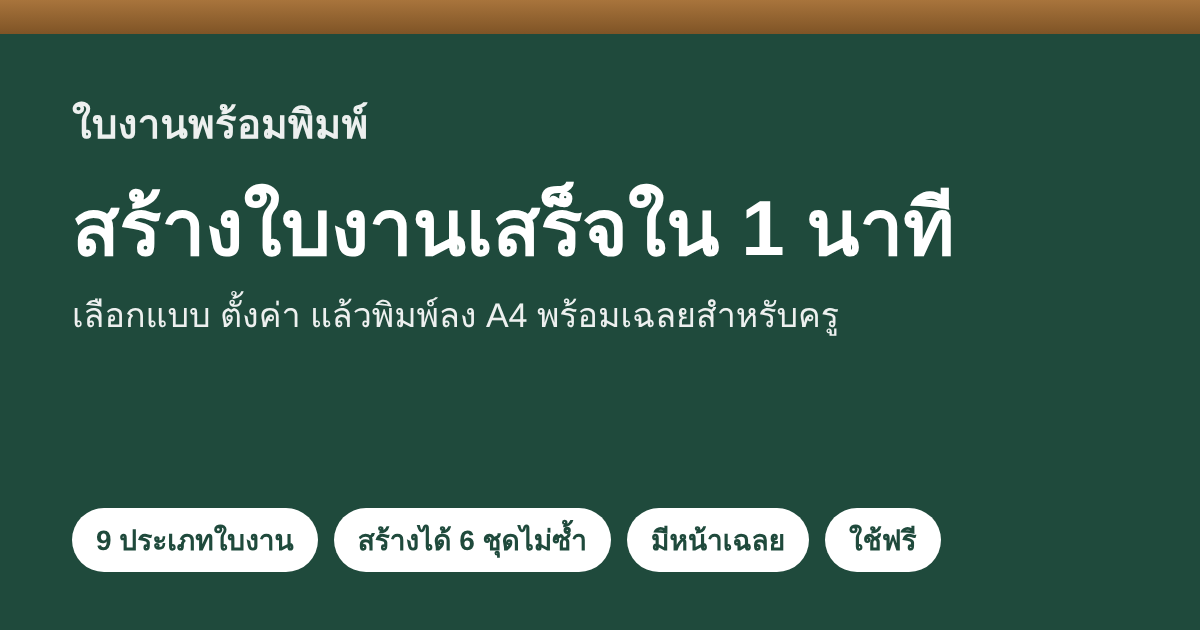
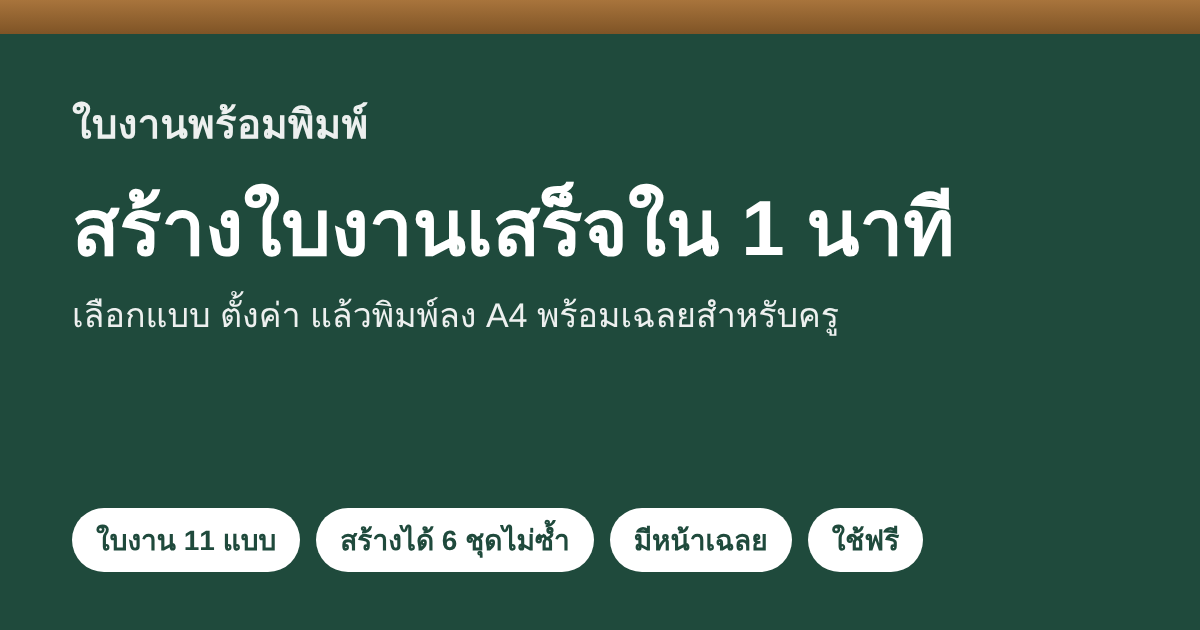
Add stock/shipping, timetable/attendance, counter sales
Claude-Session: https://claude.ai/code/session_01JY46Mq7wkg6osFKinFdLUy

Changed region(s): [[0.0617, 0.7841, 0.8017, 0.9048], [0.2158, 0.7841, 0.2467, 0.8143]]

diff --git a/index.html b/index.html
@@ -188,6 +188,18 @@ dialog.dlg::backdrop{background:rgba(10,20,18,.5)}
 .page.f-dash::before{border:2px dashed #111;border-radius:4mm}
 .page.f-round::before{border:2.5px solid #111;border-radius:8mm}
 .ws-head .set{display:inline-block;margin-left:3mm;padding:0 3mm;border:1.5px solid #111;border-radius:99px;font-family:var(--f-body);font-size:11pt;font-weight:600;vertical-align:middle}
+
+/* timetable and attendance */
+.tb table,.rl table{width:100%;border-collapse:collapse;table-layout:fixed}
+.tb th,.tb td,.rl th,.rl td{border:1.2px solid #111;text-align:center;padding:.6mm;overflow:hidden}
+.tb th{font-size:9.5pt;font-weight:600;height:13mm;line-height:1.2}
+.tb th small{display:block;font-weight:400;font-size:7.5pt}
+.tb td{height:27mm;font-size:10.5pt;line-height:1.25;word-break:break-word}
+.tb .day{width:20mm;font-weight:700;font-family:var(--f-head)}
+.tb .lunch{width:8mm;background:#eceff5;font-size:8.5pt;padding:0}
+.rl th{font-size:9pt;height:10mm}
+.rl td{height:6.5mm;font-size:9.5pt}
+.rl .no{width:9mm}.rl .nm{width:46mm;text-align:left;padding-left:1.5mm;white-space:nowrap}.rl .sum{width:11mm}
 </style>
 </head>
 <body>
@@ -208,6 +220,8 @@ dialog.dlg::backdrop{background:rgba(10,20,18,.5)}
     <button type="button" data-type="cmp"><svg class="ic" viewBox="0 0 24 24" aria-hidden="true"><path d="M9 7l-5 5 5 5M15 7l5 5-5 5"/></svg>เปรียบเทียบจำนวน</button>
     <button type="button" data-type="seq"><svg class="ic" viewBox="0 0 24 24" aria-hidden="true"><path d="M4 17h3V12h4V7h4V4h5"/></svg>แบบรูปจำนวน</button>
     <button type="button" data-type="frac"><svg class="ic" viewBox="0 0 24 24" aria-hidden="true"><circle cx="12" cy="12" r="9"/><path d="M12 3v9h9"/></svg>เศษส่วน</button>
+    <button type="button" data-type="table"><svg class="ic" viewBox="0 0 24 24" aria-hidden="true"><rect x="3" y="5" width="18" height="15" rx="2"/><path d="M3 10h18M8 5v15M8 3v2M16 3v2"/></svg>ตารางเรียน</button>
+    <button type="button" data-type="roll"><svg class="ic" viewBox="0 0 24 24" aria-hidden="true"><path d="M5 4h14v16H5z"/><path d="M8 9l1.5 1.5L12 8M8 15l1.5 1.5L12 14M14 9.5h3M14 15.5h3"/></svg>ใบเช็กชื่อ</button>
   </div>
 
   <label class="f">ชื่อโรงเรียน<input type="text" id="school" value="โรงเรียนบ้านตัวอย่าง"></label>
@@ -285,6 +299,28 @@ rabbit = กระต่าย</textarea></label>
       <select id="tBlank"><option value="100">ทุกข้อ</option><option value="50" selected>ครึ่งหนึ่ง</option><option value="30">บางข้อ</option></select></label>
   </div>
 
+  <div class="opt" id="o-table">
+    <div class="two">
+      <label class="f">จำนวนคาบต่อวัน<input type="number" id="tPer" min="3" max="9" value="6" inputmode="numeric"></label>
+      <label class="f">เริ่มคาบแรกเวลา<input type="text" id="tStart" value="08:30" inputmode="numeric"></label>
+    </div>
+    <div class="two">
+      <label class="f">คาบละกี่นาที<input type="number" id="tMin" min="20" max="120" value="50" inputmode="numeric"></label>
+      <label class="f">พักเที่ยงหลังคาบที่<input type="number" id="tLunch" min="0" max="9" value="3" inputmode="numeric"></label>
+    </div>
+    <label class="f">วิชาในแต่ละวัน (ไม่ใส่ก็ได้ จะได้ตารางเปล่า) พิมพ์วันละบรรทัด คั่นวิชาด้วยจุลภาค
+      <textarea id="tText" placeholder="จันทร์: ภาษาไทย, คณิตศาสตร์, อังกฤษ, วิทยาศาสตร์, สังคม, พละ&#10;อังคาร: คณิตศาสตร์, ภาษาไทย, ศิลปะ"></textarea></label>
+  </div>
+
+  <div class="opt" id="o-roll">
+    <div class="two">
+      <label class="f">จำนวนนักเรียน<input type="number" id="rRows" min="5" max="60" value="30" inputmode="numeric"></label>
+      <label class="f">จำนวนช่องวัน<input type="number" id="rCols" min="5" max="25" value="20" inputmode="numeric"></label>
+    </div>
+    <label class="f">รายชื่อนักเรียน (ไม่ใส่ก็ได้) บรรทัดละ 1 คน
+      <textarea id="rNames"></textarea></label>
+  </div>
+
   <div class="opt" id="o-frac">
     <div class="two">
       <label class="f">รูปภาพ
@@ -352,7 +388,7 @@ rabbit = กระต่าย</textarea></label>
 
 </div></main>
 <footer class="site-ft"><button type="button" data-open="dlgGuide">วิธีใช้</button><button type="button" data-open="dlgPolicy">นโยบายความเป็นส่วนตัวและความปลอดภัย</button><a href="https://github.com/rookiekrit6-dotcom/Worksheet/issues">แจ้งปัญหาหรือเสนอแนะ</a><span>ใช้ฟรี ไม่ต้องสมัครสมาชิก</span></footer>
-<dialog class="dlg" id="dlgGuide" aria-labelledby="dlgGuideT"><div class="dlg-h"><b id="dlgGuideT">วิธีใช้ ใบงานพร้อมพิมพ์</b><button class="dlg-x" type="button" data-close>ปิด</button></div><div class="dlg-b"><h3>สร้างใบงาน</h3><ol><li>เลือกประเภทใบงาน: บวก ลบ คูณ หาร, คัดลายมือ, จับคู่คำศัพท์, สูตรคูณ โจทย์ปัญหา บอกเวลา เปรียบเทียบจำนวน แบบรูปจำนวน หรือเศษส่วน</li><li>แก้ชื่อโรงเรียน ชื่อใบงาน และคำชี้แจงตามต้องการ</li><li>ตั้งค่าระดับชั้น จำนวนข้อ หรือพิมพ์เนื้อหาของคุณเอง ตัวอย่างด้านขวาจะเปลี่ยนตามทันที</li><li>ถ้าอยากได้โจทย์ชุดใหม่ กดสุ่มโจทย์ใหม่</li><li>เลือกจำนวนชุดได้ถึง 6 ชุดที่โจทย์ไม่ซ้ำกัน เหมาะสำหรับแจกนักเรียนที่นั่งติดกัน และเลือกกรอบตกแต่งได้</li><li>ติ๊กแนบหน้าเฉลย ถ้าต้องการเฉลยสำหรับครู</li></ol>
+<dialog class="dlg" id="dlgGuide" aria-labelledby="dlgGuideT"><div class="dlg-h"><b id="dlgGuideT">วิธีใช้ ใบงานพร้อมพิมพ์</b><button class="dlg-x" type="button" data-close>ปิด</button></div><div class="dlg-b"><h3>สร้างใบงาน</h3><ol><li>เลือกประเภทใบงาน: บวก ลบ คูณ หาร, คัดลายมือ, จับคู่คำศัพท์, สูตรคูณ โจทย์ปัญหา บอกเวลา เปรียบเทียบจำนวน แบบรูปจำนวน หรือเศษส่วน และยังมีตารางเรียนกับใบเช็กชื่อสำหรับงานประจำห้อง</li><li>แก้ชื่อโรงเรียน ชื่อใบงาน และคำชี้แจงตามต้องการ</li><li>ตั้งค่าระดับชั้น จำนวนข้อ หรือพิมพ์เนื้อหาของคุณเอง ตัวอย่างด้านขวาจะเปลี่ยนตามทันที</li><li>ถ้าอยากได้โจทย์ชุดใหม่ กดสุ่มโจทย์ใหม่</li><li>เลือกจำนวนชุดได้ถึง 6 ชุดที่โจทย์ไม่ซ้ำกัน เหมาะสำหรับแจกนักเรียนที่นั่งติดกัน และเลือกกรอบตกแต่งได้</li><li>ติ๊กแนบหน้าเฉลย ถ้าต้องการเฉลยสำหรับครู</li></ol>
 <h3>พิมพ์หรือบันทึกเป็น PDF</h3><ol><li>กดพิมพ์ใบงาน</li><li>เลือกขนาดกระดาษ A4 ตั้งขอบกระดาษเป็น "ไม่มี" และปิดหัวกระดาษท้ายกระดาษของเบราว์เซอร์</li><li>ถ้าต้องการไฟล์ ให้เลือกปลายทางเป็น "บันทึกเป็น PDF"</li></ol>
 <h3>ข้อแนะนำ</h3><ul><li>ตรวจโจทย์และเฉลยอีกครั้งก่อนแจกนักเรียน</li><li>ใบงานจับคู่ ให้พิมพ์คำศัพท์บรรทัดละ 1 คู่ คั่นด้วยเครื่องหมาย = เช่น cat = แมว หรือกดเลือกชุดคำศัพท์สำเร็จรูป 13 หมวด</li></ul></div></dialog>
 <dialog class="dlg" id="dlgPolicy" aria-labelledby="dlgPolicyT"><div class="dlg-h"><b id="dlgPolicyT">นโยบายความเป็นส่วนตัวและความปลอดภัยของข้อมูล</b><button class="dlg-x" type="button" data-close>ปิด</button></div><div class="dlg-b">
@@ -384,6 +420,8 @@ const DEFAULTS = {
   hand:{title:'แบบฝึกคัดลายมือ', inst:'ให้นักเรียนเขียนทับตัวอักษรสีจาง แล้วคัดเองในบรรทัดว่างด้วยตัวบรรจง'},
   match:{title:'ใบงานจับคู่คำศัพท์', inst:'ให้นักเรียนลากเส้นจับคู่คำศัพท์กับความหมายที่ถูกต้อง'},
   times:{title:'ใบงานสูตรคูณ', inst:'ให้นักเรียนเติมผลคูณลงในช่องว่างให้ถูกต้อง'},
+  table:{title:'ตารางเรียน', inst:'ชั้น ............ ภาคเรียนที่ ............ ปีการศึกษา ............'},
+  roll:{title:'ใบเช็กชื่อนักเรียน', inst:'เดือน ........................ ห้อง ............ เครื่องหมาย: / มา, ข ขาด, ล ลา, ป ป่วย'},
   frac:{title:'ใบงานเศษส่วน', inst:'ให้นักเรียนดูส่วนที่ระบายสี แล้วเขียนเศษส่วนลงในช่องว่าง'},
   seq:{title:'ใบงานแบบรูปของจำนวน', inst:'ให้นักเรียนสังเกตแบบรูป แล้วเติมจำนวนที่หายไปลงในช่องว่าง'},
   cmp:{title:'ใบงานเปรียบเทียบจำนวน', inst:'ให้นักเรียนเติมเครื่องหมาย > < หรือ = ลงในวงกลม'},
@@ -527,6 +565,25 @@ function buildClock(){
   return { pages, key };
 }
 
+function buildTable(){
+  const per = clamp(parseInt($('tPer').value) || 6, 3, 9), mins = clamp(parseInt($('tMin').value) || 50, 20, 120), lunch = clamp(parseInt($('tLunch').value) || 0, 0, per - 1);
+  const m0 = /^(\d{1,2})[:.](\d{2})$/.exec($('tStart').value.trim()); let t = m0 ? (+m0[1]) * 60 + (+m0[2]) : 510;
+  const hm = x => String(Math.floor(x / 60) % 24).padStart(2, '0') + ':' + String(x % 60).padStart(2, '0');
+  const DAYS = ['จันทร์','อังคาร','พุธ','พฤหัสบดี','ศุกร์'], subj = {};
+  $('tText').value.split('\n').forEach(l => { const i = l.indexOf(':'); if (i < 0) return; const d = DAYS.find(x => l.slice(0, i).trim().replace('วัน', '') === x); if (d) subj[d] = l.slice(i + 1).split(',').map(x => x.trim()); });
+  let th = '<th class="day">วัน</th>';
+  for (let k = 1; k <= per; k++){ th += `<th>คาบ ${k}<small>${hm(t)}–${hm(t + mins)}</small></th>`; t += mins; if (k === lunch){ th += '<th class="lunch">พัก</th>'; t += 60; } }
+  const rows = DAYS.map(d => { let r = `<td class="day">${d}</td>`; for (let k = 1; k <= per; k++){ r += `<td>${esc((subj[d] || [])[k - 1] || '')}</td>`; if (k === lunch) r += '<td class="lunch"></td>'; } return `<tr>${r}</tr>`; }).join('');
+  return { pages:[page(`<div class="tb"><table><tr>${th}</tr>${rows}</table></div>`, true)], key:null };
+}
+function buildRoll(){
+  const n = clamp(parseInt($('rRows').value) || 30, 5, 60), cols = clamp(parseInt($('rCols').value) || 20, 5, 25), names = $('rNames').value.split('\n').map(x => x.trim()).filter(Boolean), list = [];
+  for (let i = 0; i < Math.max(n, names.length); i++) list.push(names[i] || '');
+  const th = `<tr><th class="no">ที่</th><th class="nm" style="text-align:center">ชื่อ-สกุล</th>${'<th></th>'.repeat(cols)}<th class="sum">รวม</th></tr>`;
+  let idx = 0;
+  const pages = chunk(list, 30, 36).map((c, pi) => page(`<div class="rl"><table>${th}${c.map(nm => `<tr><td class="no">${++idx}</td><td class="nm">${esc(nm)}</td>${'<td></td>'.repeat(cols)}<td class="sum"></td></tr>`).join('')}</table></div>`, pi === 0));
+  return { pages, key:null };
+}
 function fracSVG(n, d, pie){
   let g = '<svg viewBox="0 0 100 60" role="img" aria-label="รูปเศษส่วน">';
   if (pie){
@@ -591,7 +648,7 @@ const VOCAB = {
 };
 
 /* ---------- render ---------- */
-const BUILD = { math:buildMath, hand:buildHand, match:buildMatch, times:buildTimes, word:buildWord, clock:buildClock, cmp:buildCmp, seq:buildSeq, frac:buildFrac };
+const BUILD = { math:buildMath, hand:buildHand, match:buildMatch, times:buildTimes, word:buildWord, clock:buildClock, cmp:buildCmp, seq:buildSeq, frac:buildFrac, table:buildTable, roll:buildRoll };
 let curSet = 0;
 function render(){
   const sets = clamp(parseInt($('vers').value) || 1, 1, 6), base = seed, sheets = [], keys = [];
@@ -600,7 +657,7 @@ function render(){
   $('preview').innerHTML = sheets.join('') + ($('withKey').checked ? keys.join('') : '');
   const fr = $('frame').value; if (fr) document.querySelectorAll('#preview .page').forEach(pg => pg.classList.add(fr));
   const n = $('preview').children.length;
-  $('pageInfo').textContent = 'ใบงานนี้มี ' + n + ' หน้า' + (sets > 1 ? ' รวม ' + sets + ' ชุด หน้าเฉลยอยู่ท้ายสุด' : '') + (type === 'hand' ? ' (คัดลายมือไม่มีหน้าเฉลย)' : '');
+  $('pageInfo').textContent = 'ใบงานนี้มี ' + n + ' หน้า' + (sets > 1 ? ' รวม ' + sets + ' ชุด หน้าเฉลยอยู่ท้ายสุด' : '') + (['hand','table','roll'].includes(type) ? ' (แบบนี้ไม่มีหน้าเฉลย)' : '');
   fit();
 }
 function fit(){
